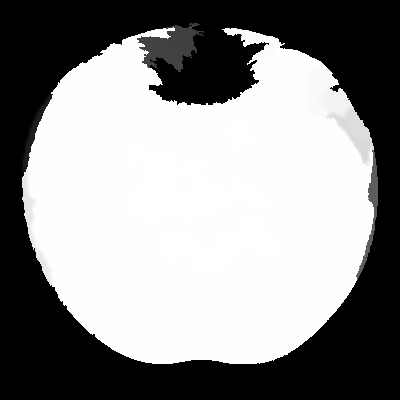
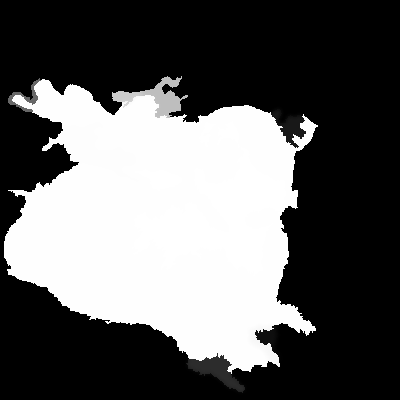
Refactor saliency processing: replace manual computation with compute_saliency function and update input image

Changed region(s): [[0.0, 0.06, 0.96, 0.99], [0.15, 0.75, 0.18, 0.78]]

diff --git a/backend/saliency_core/main.py b/backend/saliency_core/main.py
@@ -1,54 +1,15 @@
 import cv2
-from superpixels import compute_superpixels, compute_features
-from skimage.color import rgb2lab
-from graph import build_adjacency, compute_weight_matrix, compute_degree_matrix, compute_normalized_similarity
-from ranking import  compute_boundary_seeds, manifold_ranking
 import numpy as np
+from saliency import compute_saliency
 
-image = cv2.imread("./Test Images/simple_400.jpg")
+image = cv2.imread("./Test Images/realistic_400.jpg")
 if image is None:
   print("Input not found")
   exit()
 image = cv2.cvtColor(image, cv2.COLOR_BGR2RGB)
 # OpenCV takes input in BGR format so we are converting it to RGB.
 
-lab_image = rgb2lab(image)
-# Converting image to LAB(L (Lighting), A channel(green, red), B channel(blue, yellow)) for uniform perception for human eye.)
-
-segments, num_nodes = compute_superpixels(image, 500)
-features = compute_features(lab_image, segments, num_nodes)
-# print(features[:, :3].max(), features[:, :3].min())
-adjacency = build_adjacency(segments, num_nodes)
-
-sigma = 1.81
-beta = 0.9
-weights = compute_weight_matrix(features, adjacency, sigma)
-degree = compute_degree_matrix(weights)
-normalized_similarity = compute_normalized_similarity(weights, degree)
-# Background seeds
-y_background = compute_boundary_seeds(segments, num_nodes)
-f_b = manifold_ranking(normalized_similarity, y_background, beta)
-f_b = (f_b - f_b.min()) / (f_b.max() - f_b.min())
-
-# Foreground seeds (center superpixels)
-x_coords = features[:, 3]
-y_coords = features[:, 4]
-
-dist_center = np.sqrt((x_coords - 0.5)**2 + (y_coords - 0.5)**2)
-
-k = int(0.15 * num_nodes)  # 10%
-indices = np.argsort(dist_center)[:k]
-
-y_foreground = np.zeros(num_nodes)
-y_foreground[indices] = 1
-
-f_f = manifold_ranking(normalized_similarity, y_foreground, beta)
-f_f = (f_f - f_f.min()) / (f_f.max() - f_f.min())
-
-saliency = f_f / (f_f + f_b + 1e-8)
-
-saliency = saliency ** 2
-saliency_map = saliency[segments]
+saliency_map = compute_saliency(image, 500)
 
 saliency_map = saliency_map.astype(np.float32)
 saliency_map = cv2.bilateralFilter(

diff --git a/backend/saliency_core/saliency.py b/backend/saliency_core/saliency.py
@@ -1,0 +1,47 @@
+from superpixels import compute_superpixels, compute_features
+from skimage.color import rgb2lab
+from graph import build_adjacency, compute_weight_matrix, compute_degree_matrix, compute_normalized_similarity
+from ranking import  compute_boundary_seeds, manifold_ranking
+import numpy as np
+
+def compute_saliency(image, num_segments):
+  lab_image = rgb2lab(image)
+  # Converting image to LAB(L (Lighting), A channel(green, red), B channel(blue, yellow)) for uniform perception for human eye.)
+
+  segments, num_nodes = compute_superpixels(image, num_segments)
+  features = compute_features(lab_image, segments, num_nodes)
+  # print(features[:, :3].max(), features[:, :3].min())
+  adjacency = build_adjacency(segments, num_nodes)
+
+  sigma = 1.81
+  beta = 0.9
+  weights = compute_weight_matrix(features, adjacency, sigma)
+  degree = compute_degree_matrix(weights)
+  normalized_similarity = compute_normalized_similarity(weights, degree)
+  # Background seeds
+  y_background = compute_boundary_seeds(segments, num_nodes)
+  f_b = manifold_ranking(normalized_similarity, y_background, beta)
+  f_b = (f_b - f_b.min()) / (f_b.max() - f_b.min())
+
+  # Foreground seeds (center superpixels)
+  x_coords = features[:, 3]
+  y_coords = features[:, 4]
+
+  dist_center = np.sqrt((x_coords - 0.5)**2 + (y_coords - 0.5)**2)
+
+  k = int(0.15 * num_nodes)  # 15%
+  indices = np.argsort(dist_center)[:k]
+
+  y_foreground = np.zeros(num_nodes)
+  y_foreground[indices] = 1
+
+  f_f = manifold_ranking(normalized_similarity, y_foreground, beta)
+  f_f = (f_f - f_f.min()) / (f_f.max() - f_f.min())
+
+  saliency = f_f / (f_f + f_b + 1e-8)
+
+  saliency = saliency ** 2
+  saliency_map = saliency[segments]
+  saliency_map = saliency_map.astype(np.float32)
+
+  return saliency_map
